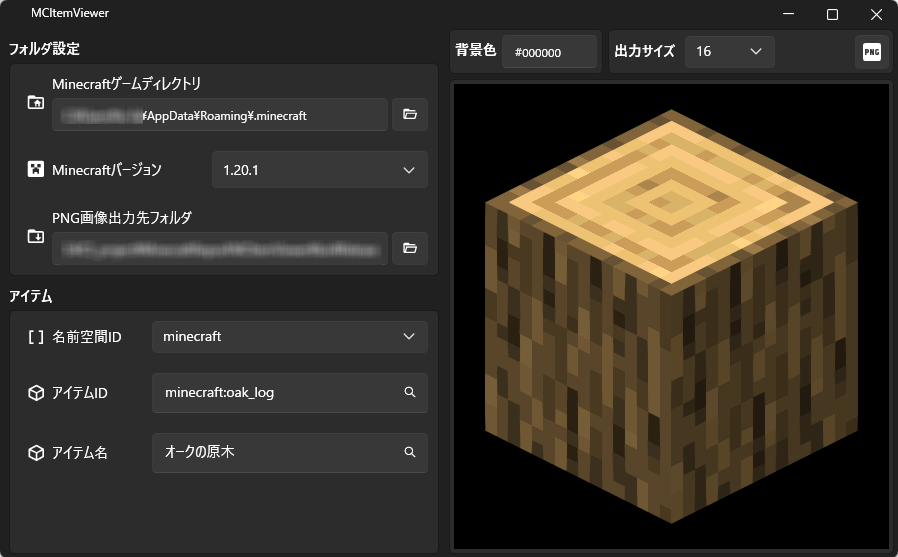
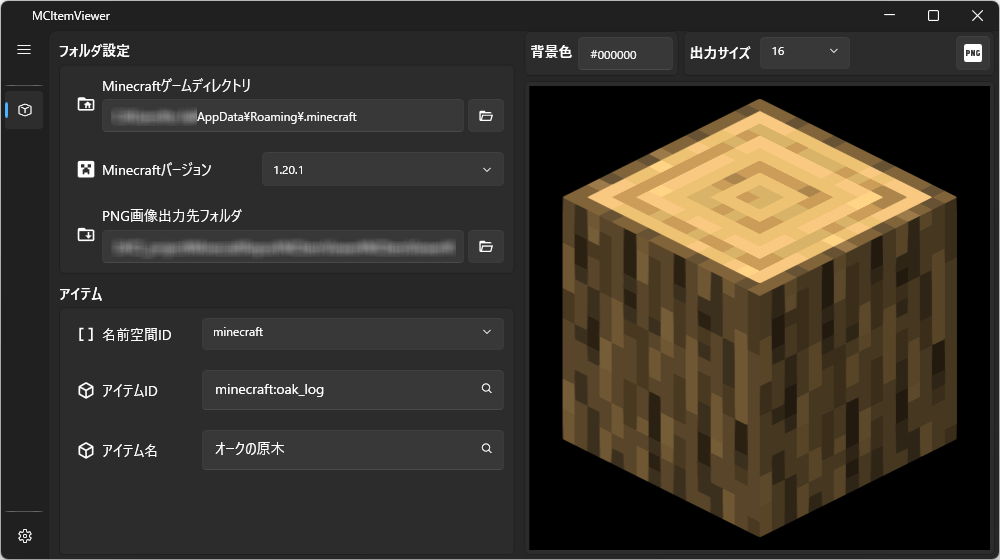
英語版READMEの画像を英語UIのスクリーンショットに差し替え
英語UIのスクリーンショット（*_en.png）を追加し、日本語版のscreenshot.pngを更新。

diff --git a/doc/README_english.md b/doc/README_english.md
@@ -6,7 +6,7 @@ A tool for viewing Minecraft items without launching Minecraft.
 
 You can also export the displayed item as an image.
 
-![screenshot](./screenshot.png)
+![screenshot](./screenshot_en.png)
 
 ## 🌟 Features
 
@@ -35,7 +35,7 @@ Minecraft Java Edition 1.13 or later
 
 1. Set the Minecraft game directory and version.
 
-   ![usage01](./usage01.png)
+   ![usage01](./usage01_en.png)
 
 2. Enter an item ID or item name.
 
@@ -43,7 +43,7 @@ Minecraft Java Edition 1.13 or later
 
    *2 In the current version, the namespace is fixed to `minecraft`.
 
-   ![usage02](./usage02.png)
+   ![usage02](./usage02_en.png)
 
 3. The entered item is displayed on the right.
 
@@ -53,7 +53,7 @@ Minecraft Java Edition 1.13 or later
 
    The image is saved to the location specified in "PNG output folder".
 
-   ![usage03](./usage03.png)
+   ![usage03](./usage03_en.png)
 
 ## 😔 Not supported (Will be supported in the future)
 
